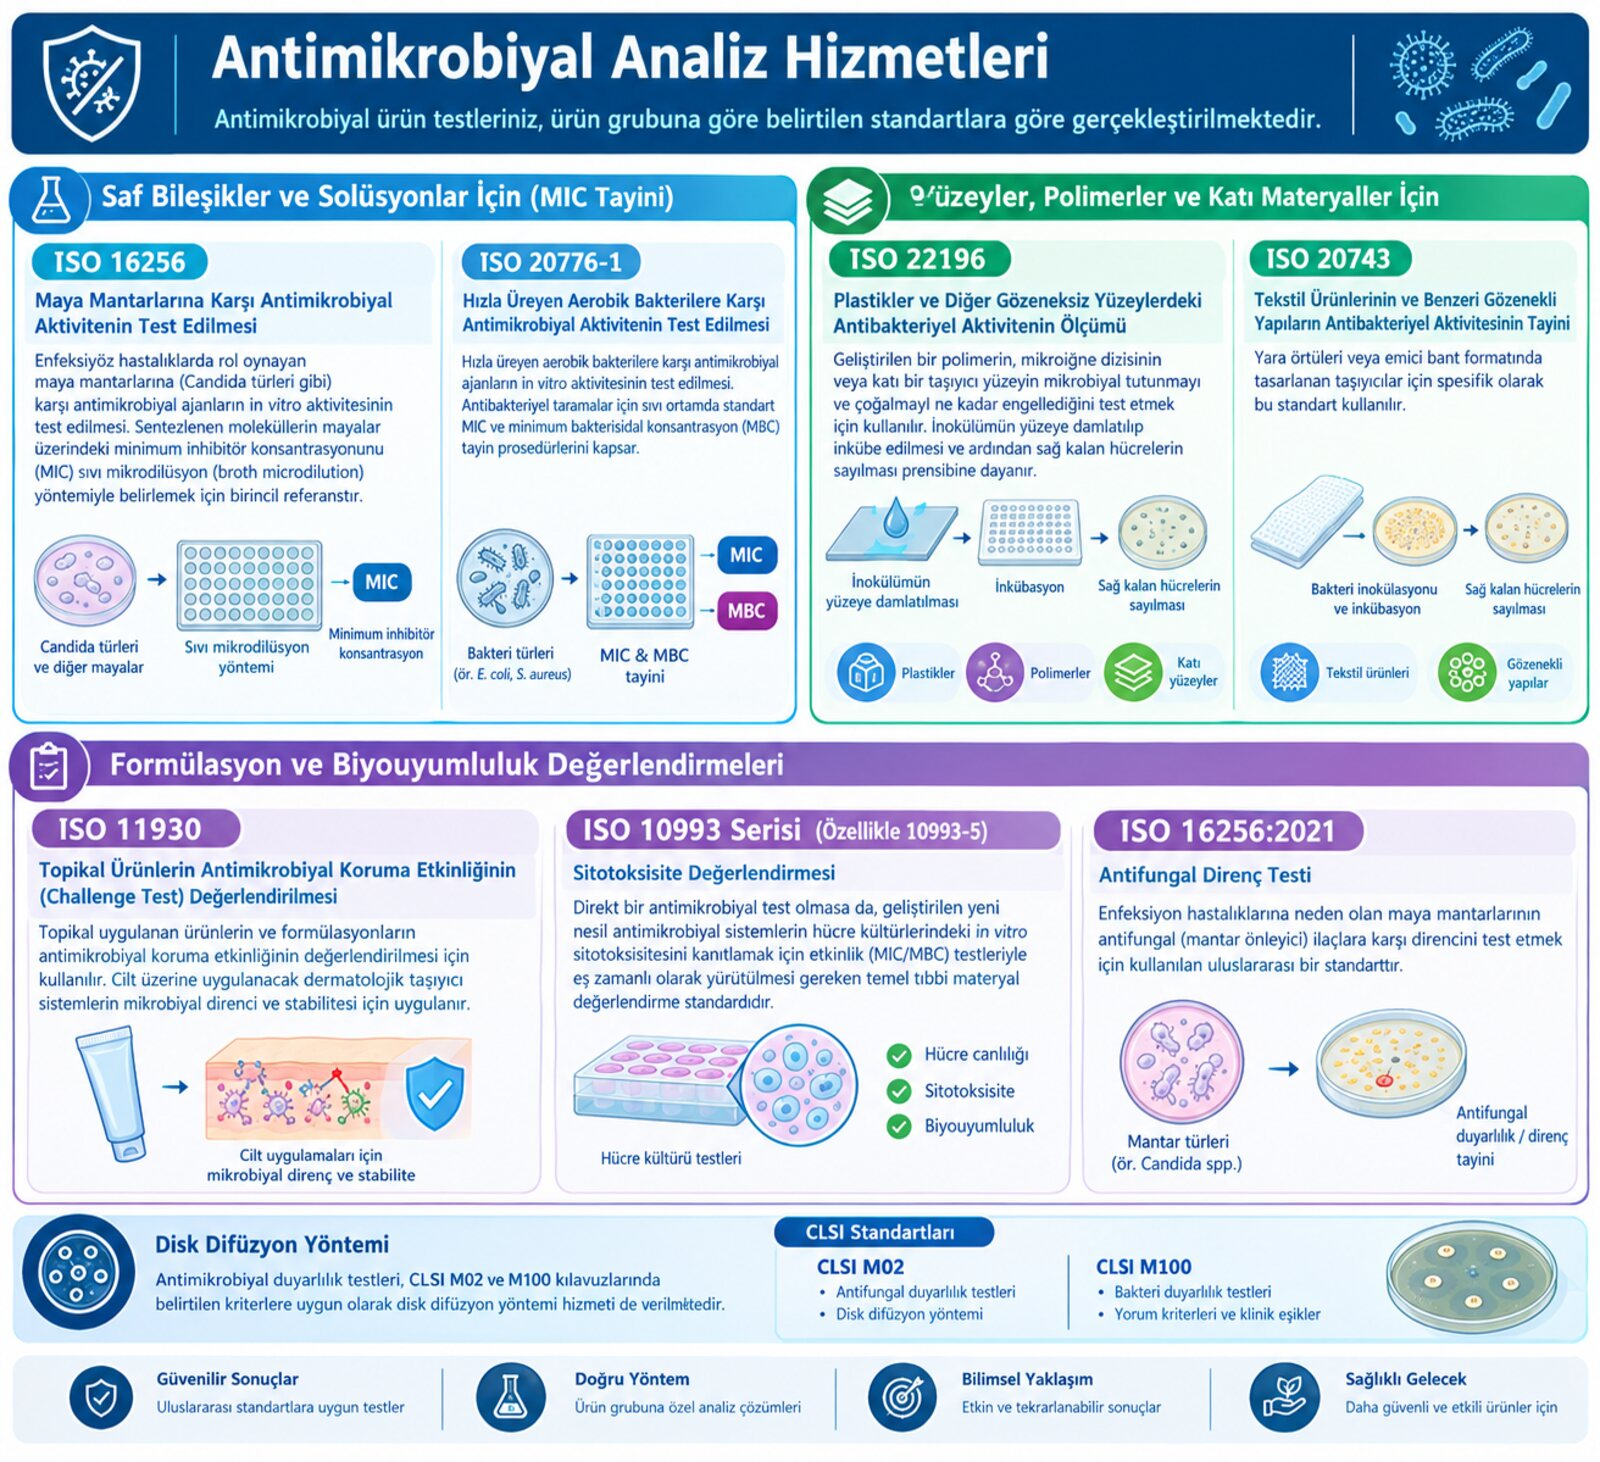
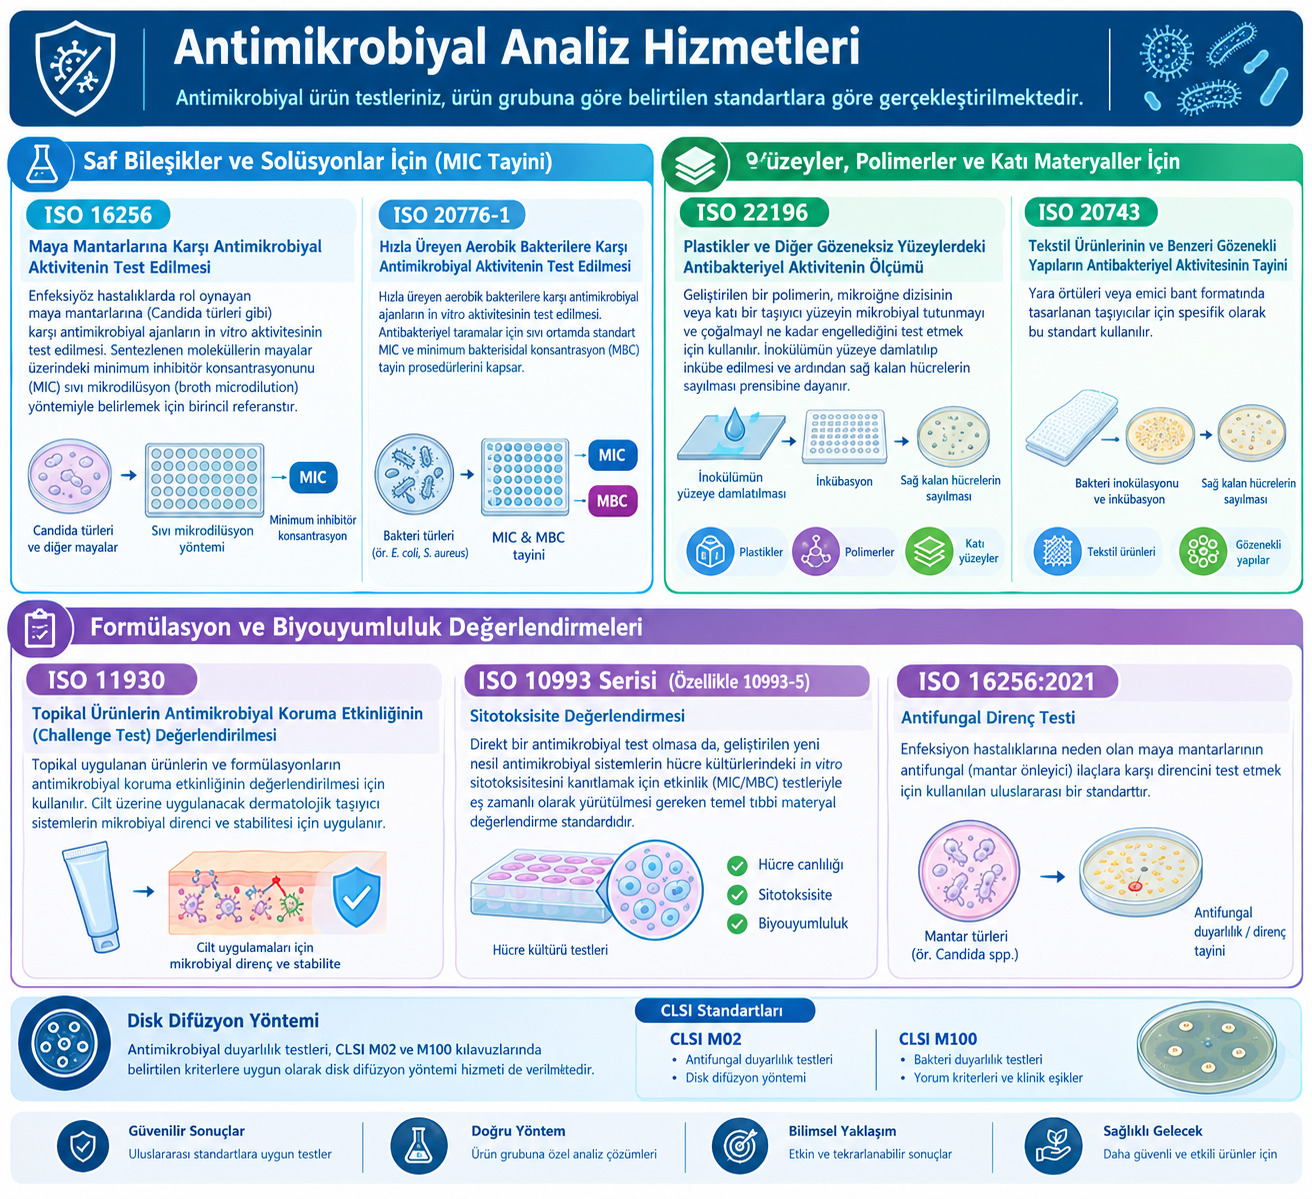
Fix upscaled/blurry images and remove placeholder brand slots
The training photo and three infographics had been upscaled past
their native resolution during the first pass, which is what made
them look soft/blurry; re-export them at native size with higher
JPEG quality instead. Also shrink the training photo's display size
so it stops dominating the Modül A panel, and drop the "Marka logosu
2/3/4" dashed placeholder boxes so Markalar doesn't look unfinished.

diff --git a/index.html b/index.html
@@ -199,6 +199,7 @@ section{padding:88px 0}
 .svc-body li>b{color:var(--ink)}
 .svc-body .cols{display:grid;grid-template-columns:1fr 1fr;gap:26px}
 .svc-body .ph{border-radius:var(--r);overflow:hidden;border:1px solid var(--line)}
+.svc-body .ph.sm{max-width:420px}
 .svc-body .ph img{width:100%;display:block}
 .svc-meta{display:grid;grid-template-columns:repeat(auto-fit,minmax(170px,1fr));gap:18px;padding:18px 20px;background:var(--paper);border-radius:12px}
 .svc-meta div dt{font-family:"IBM Plex Mono";font-size:11px;letter-spacing:.1em;text-transform:uppercase;color:var(--green)}
@@ -211,9 +212,6 @@ section{padding:88px 0}
 .svc-note a{text-decoration:underline}
 
 /* markalar / alt yapı */
-.slots{display:grid;grid-template-columns:repeat(auto-fit,minmax(160px,1fr));gap:16px}
-.slot{border:1px dashed var(--line);border-radius:12px;background:#fff;height:96px;display:grid;place-items:center;
-  font-family:"IBM Plex Mono";font-size:12px;color:#9fb2be;text-align:center;padding:10px}
 .brand-card{display:flex;align-items:center;gap:28px;border:1px solid var(--line);border-radius:var(--r);padding:26px 28px;margin-bottom:20px;background:#fff}
 .brand-card img{height:34px;width:auto;flex:none}
 .brand-card p{color:var(--slate);font-size:15px}
@@ -260,7 +258,6 @@ footer .brand span{color:#fff}
   .principles{grid-template-columns:1fr 1fr}
   .principle{border-right:0;border-bottom:1px solid var(--line)}
   .band .wrap{grid-template-columns:1fr;gap:12px}
-  .slots{grid-template-columns:1fr 1fr}
   .svc-body{padding-left:0}
   .svc-body .cols{grid-template-columns:1fr}
 }
@@ -462,7 +459,7 @@ footer .brand span{color:#fff}
         <summary><span class="n">H-01</span><h3><span data-i18n="egtA.h3">Doku – Kök Hücre Uygulama Eğitimi</span> <span class="suf" data-i18n="egtA.suf">(Modül A)</span></h3><span class="chev" aria-hidden="true">+</span></summary>
         <div class="svc-body" data-i18n-html="egtA.body">
           <p>Sanayi ve akademik alanda çalışan veya çalışmak isteyen uzman ve uzman adaylarına memeli hücre kültürü tekniklerini teorik anlatım ve bire bir uygulama fırsatıyla kazandırmayı amaçlayan bir eğitim programıdır.</p>
-          <div class="ph"><img src="assets/images/egitim-doku-kok-hucre.jpg" alt="Doku-Kök Hücre Uygulama Eğitimi'nden bir kare" loading="lazy" width="1400" height="764"></div>
+          <div class="ph sm"><img src="assets/images/egitim-doku-kok-hucre.jpg" alt="Doku-Kök Hücre Uygulama Eğitimi'nden bir kare" loading="lazy" width="1024" height="559"></div>
           <div><h4>Hedef</h4><p>Aseptik teknik şartlarında memeli hücrelerinin bulundukları dokulardan elde edilmesi; izole memeli hücrelerinin veya hücre hatlarının kültüre edilerek büyütülmesi ve devamlılıklarının sağlanması; kriyoprezervasyon ve kriyoprezerve edilen hücrelerin geri kazanılması süreçleri üzerine bilgi ve deneyim kazandırmaktır.</p></div>
           <div class="cols">
             <div><h4>Program — Kavramsal Eğitim</h4>
@@ -561,8 +558,8 @@ footer .brand span{color:#fff}
             </ul>
           </div>
           <div class="cols">
-            <div class="ph"><img src="assets/images/eksozom-izolasyon-infografik.jpg" alt="Eksozom izolasyon yöntemleri infografiği" loading="lazy" width="1600" height="1462"></div>
-            <div class="ph"><img src="assets/images/eksozom-karakterizasyon-infografik.jpg" alt="Eksozom karakterizasyonu infografiği" loading="lazy" width="1600" height="873"></div>
+            <div class="ph"><img src="assets/images/eksozom-izolasyon-infografik.jpg" alt="Eksozom izolasyon yöntemleri infografiği" loading="lazy" width="1312" height="1199"></div>
+            <div class="ph"><img src="assets/images/eksozom-karakterizasyon-infografik.jpg" alt="Eksozom karakterizasyonu infografiği" loading="lazy" width="1407" height="768"></div>
           </div>
           <p class="svc-note">Fiyat ve hizmet şartları için bizimle iletişime geçebilirsiniz.</p>
         </div>
@@ -572,7 +569,7 @@ footer .brand span{color:#fff}
         <summary><span class="n">H-06</span><h3><span data-i18n="gen.h3">Memeli ve Prokaryotik Hücrelerde Gen ve Transkripsiyon Düzenleme İşlemleri</span></h3><span class="chev" aria-hidden="true">+</span></summary>
         <div class="svc-body" data-i18n-html="gen.body">
           <ul><li>Gen aktarımı</li><li>CRISPR Cas13d aracılı kalıcı knockdown</li><li>CRISPR Cas9 ile gen knockout</li></ul>
-          <div class="ph"><img src="assets/images/gen-crispr-infografik.jpg" alt="Gen aktarma ve CRISPR teknolojileri infografiği" loading="lazy" width="1600" height="1462"></div>
+          <div class="ph"><img src="assets/images/gen-crispr-infografik.jpg" alt="Gen aktarma ve CRISPR teknolojileri infografiği" loading="lazy" width="1312" height="1199"></div>
           <p class="svc-note">Fiyat ve hizmet şartları için bizimle iletişime geçebilirsiniz.</p>
         </div>
       </details>
@@ -647,7 +644,7 @@ footer .brand span{color:#fff}
               <p>Antimikrobiyal duyarlılık testleri, CLSI M02 ve M100 kılavuzlarında belirtilen kriterlere uygun olarak disk difüzyon yöntemiyle de sunulmaktadır.</p>
             </div>
           </div>
-          <div class="ph"><img src="assets/images/antimikrobiyal-infografik.jpg" alt="Antimikrobiyal analiz hizmetleri infografiği" loading="lazy" width="1600" height="1462"></div>
+          <div class="ph"><img src="assets/images/antimikrobiyal-infografik.jpg" alt="Antimikrobiyal analiz hizmetleri infografiği" loading="lazy" width="1312" height="1199"></div>
           <p class="svc-note">Fiyat ve hizmet şartları için bizimle iletişime geçebilirsiniz.</p>
         </div>
       </details>
@@ -667,10 +664,6 @@ footer .brand span{color:#fff}
     <div class="brand-card rv">
       <img src="assets/images/as-one-logo.png" alt="AS ONE Corporation logosu" loading="lazy" width="232" height="58">
       <p data-i18n="markalar.asone">AS ONE Corporation, 1962 yılında kurulan, merkezi Osaka, Japonya'da bulunan kapsamlı bir ticaret ve tedarik şirketidir. Özellikle bilimsel araştırma, endüstriyel tesisler ve sağlık/bakım sektörleri için laboratuvar ekipmanları, sarf malzemeleri ve araç-gereç tedariki konusunda uzmanlaşmıştır. Firmamız, sizlere As One laboratuvar cihaz ve sarf malzemelerini sağlamaktadır.</p>
-    </div>
-    <div class="slots rv">
-      <div class="slot" data-i18n="markalar.slot2">Marka logosu 2</div>
-      <div class="slot" data-i18n="markalar.slot3">Marka logosu 3</div><div class="slot" data-i18n="markalar.slot4">Marka logosu 4</div>
     </div>
   </div>
 </section>
@@ -828,7 +821,7 @@ const i18n={
     'svc.suffix':'(deneysel kullanım amaçlı)','svc.desc':'Açıklama eklenecek.','svc.cta1':'Bilgi alın','svc.cta2':'Numune gönderin',
     'egtA.h3':'Doku – Kök Hücre Uygulama Eğitimi','egtA.suf':'(Modül A)',
     'egtA.body':`<p>Sanayi ve akademik alanda çalışan veya çalışmak isteyen uzman ve uzman adaylarına memeli hücre kültürü tekniklerini teorik anlatım ve bire bir uygulama fırsatıyla kazandırmayı amaçlayan bir eğitim programıdır.</p>
-      <div class="ph"><img src="assets/images/egitim-doku-kok-hucre.jpg" alt="Doku-Kök Hücre Uygulama Eğitimi'nden bir kare" loading="lazy" width="1400" height="764"></div>
+      <div class="ph sm"><img src="assets/images/egitim-doku-kok-hucre.jpg" alt="Doku-Kök Hücre Uygulama Eğitimi'nden bir kare" loading="lazy" width="1024" height="559"></div>
       <div><h4>Hedef</h4><p>Aseptik teknik şartlarında memeli hücrelerinin bulundukları dokulardan elde edilmesi; izole memeli hücrelerinin veya hücre hatlarının kültüre edilerek büyütülmesi ve devamlılıklarının sağlanması; kriyoprezervasyon ve kriyoprezerve edilen hücrelerin geri kazanılması süreçleri üzerine bilgi ve deneyim kazandırmaktır.</p></div>
       <div class="cols">
         <div><h4>Program — Kavramsal Eğitim</h4>
@@ -907,13 +900,13 @@ const i18n={
         </ul>
       </div>
       <div class="cols">
-        <div class="ph"><img src="assets/images/eksozom-izolasyon-infografik.jpg" alt="Eksozom izolasyon yöntemleri infografiği" loading="lazy" width="1600" height="1462"></div>
-        <div class="ph"><img src="assets/images/eksozom-karakterizasyon-infografik.jpg" alt="Eksozom karakterizasyonu infografiği" loading="lazy" width="1600" height="873"></div>
+        <div class="ph"><img src="assets/images/eksozom-izolasyon-infografik.jpg" alt="Eksozom izolasyon yöntemleri infografiği" loading="lazy" width="1312" height="1199"></div>
+        <div class="ph"><img src="assets/images/eksozom-karakterizasyon-infografik.jpg" alt="Eksozom karakterizasyonu infografiği" loading="lazy" width="1407" height="768"></div>
       </div>
       <p class="svc-note">Fiyat ve hizmet şartları için bizimle iletişime geçebilirsiniz.</p>`,
     'gen.h3':'Memeli ve Prokaryotik Hücrelerde Gen ve Transkripsiyon Düzenleme İşlemleri',
     'gen.body':`<ul><li>Gen aktarımı</li><li>CRISPR Cas13d aracılı kalıcı knockdown</li><li>CRISPR Cas9 ile gen knockout</li></ul>
-      <div class="ph"><img src="assets/images/gen-crispr-infografik.jpg" alt="Gen aktarma ve CRISPR teknolojileri infografiği" loading="lazy" width="1600" height="1462"></div>
+      <div class="ph"><img src="assets/images/gen-crispr-infografik.jpg" alt="Gen aktarma ve CRISPR teknolojileri infografiği" loading="lazy" width="1312" height="1199"></div>
       <p class="svc-note">Fiyat ve hizmet şartları için bizimle iletişime geçebilirsiniz.</p>`,
     'mtt.h3':'MTT Analizi',
     'mtt.body':`<ul>
@@ -966,12 +959,11 @@ const i18n={
           <p>Antimikrobiyal duyarlılık testleri, CLSI M02 ve M100 kılavuzlarında belirtilen kriterlere uygun olarak disk difüzyon yöntemiyle de sunulmaktadır.</p>
         </div>
       </div>
-      <div class="ph"><img src="assets/images/antimikrobiyal-infografik.jpg" alt="Antimikrobiyal analiz hizmetleri infografiği" loading="lazy" width="1600" height="1462"></div>
+      <div class="ph"><img src="assets/images/antimikrobiyal-infografik.jpg" alt="Antimikrobiyal analiz hizmetleri infografiği" loading="lazy" width="1312" height="1199"></div>
       <p class="svc-note">Fiyat ve hizmet şartları için bizimle iletişime geçebilirsiniz.</p>`,
     'markalar.eyebrow':'Yetkili Temsilcisi Olduğumuz Markalar','markalar.h2':'Temsil ettiğimiz markalar',
     'markalar.p':'Diğer marka logoları ve ürün grupları eklendikçe bu alan güncellenecek.',
     'markalar.asone':`AS ONE Corporation, 1962 yılında kurulan, merkezi Osaka, Japonya'da bulunan kapsamlı bir ticaret ve tedarik şirketidir. Özellikle bilimsel araştırma, endüstriyel tesisler ve sağlık/bakım sektörleri için laboratuvar ekipmanları, sarf malzemeleri ve araç-gereç tedariki konusunda uzmanlaşmıştır. Firmamız, sizlere As One laboratuvar cihaz ve sarf malzemelerini sağlamaktadır.`,
-    'markalar.slot1':'Marka logosu 1','markalar.slot2':'Marka logosu 2','markalar.slot3':'Marka logosu 3','markalar.slot4':'Marka logosu 4',
     'altyapi.eyebrow':'Alt Yapımız','altyapi.h2':'Doku ve Hücre Laboratuvarımız',
     'altyapi.note':'Ekipman listesi paylaştığınız envanterle eklenecek.',
     'iletisim.eyebrow':'İletişim','iletisim.h2':'Projenizi konuşalım',
@@ -1041,7 +1033,7 @@ const i18n={
     'svc.suffix':'(for experimental use)','svc.desc':'Description to be added.','svc.cta1':'Get Info','svc.cta2':'Send a Sample',
     'egtA.h3':'Tissue–Stem Cell Application Training','egtA.suf':'(Module A)',
     'egtA.body':`<p>A training program for professionals and prospective professionals in industry and academia, designed to build mammalian cell culture skills through theoretical instruction and one-on-one hands-on practice.</p>
-      <div class="ph"><img src="assets/images/egitim-doku-kok-hucre.jpg" alt="A moment from the Tissue–Stem Cell Application Training" loading="lazy" width="1400" height="764"></div>
+      <div class="ph sm"><img src="assets/images/egitim-doku-kok-hucre.jpg" alt="A moment from the Tissue–Stem Cell Application Training" loading="lazy" width="1024" height="559"></div>
       <div><h4>Objective</h4><p>To provide knowledge and hands-on experience in obtaining mammalian cells from their tissues of origin under aseptic conditions; culturing and expanding isolated mammalian cells or cell lines while maintaining their continuity; and the processes of cryopreservation and recovering cryopreserved cells.</p></div>
       <div class="cols">
         <div><h4>Program — Conceptual Training</h4>
@@ -1120,13 +1112,13 @@ const i18n={
         </ul>
       </div>
       <div class="cols">
-        <div class="ph"><img src="assets/images/eksozom-izolasyon-infografik.jpg" alt="Exosome isolation methods infographic" loading="lazy" width="1600" height="1462"></div>
-        <div class="ph"><img src="assets/images/eksozom-karakterizasyon-infografik.jpg" alt="Exosome characterization infographic" loading="lazy" width="1600" height="873"></div>
+        <div class="ph"><img src="assets/images/eksozom-izolasyon-infografik.jpg" alt="Exosome isolation methods infographic" loading="lazy" width="1312" height="1199"></div>
+        <div class="ph"><img src="assets/images/eksozom-karakterizasyon-infografik.jpg" alt="Exosome characterization infographic" loading="lazy" width="1407" height="768"></div>
       </div>
       <p class="svc-note">Please contact us for pricing and service terms.</p>`,
     'gen.h3':'Gene and Transcription Regulation in Mammalian and Prokaryotic Cells',
     'gen.body':`<ul><li>Gene transfer</li><li>CRISPR Cas13d–mediated permanent knockdown</li><li>Gene knockout with CRISPR Cas9</li></ul>
-      <div class="ph"><img src="assets/images/gen-crispr-infografik.jpg" alt="Gene transfer and CRISPR technologies infographic" loading="lazy" width="1600" height="1462"></div>
+      <div class="ph"><img src="assets/images/gen-crispr-infografik.jpg" alt="Gene transfer and CRISPR technologies infographic" loading="lazy" width="1312" height="1199"></div>
       <p class="svc-note">Please contact us for pricing and service terms.</p>`,
     'mtt.h3':'MTT Assay',
     'mtt.body':`<ul>
@@ -1179,12 +1171,11 @@ const i18n={
           <p>Antimicrobial susceptibility testing is also offered via the disk diffusion method, in accordance with the criteria specified in the CLSI M02 and M100 guidelines.</p>
         </div>
       </div>
-      <div class="ph"><img src="assets/images/antimikrobiyal-infografik.jpg" alt="Antimicrobial testing services infographic" loading="lazy" width="1600" height="1462"></div>
+      <div class="ph"><img src="assets/images/antimikrobiyal-infografik.jpg" alt="Antimicrobial testing services infographic" loading="lazy" width="1312" height="1199"></div>
       <p class="svc-note">Please contact us for pricing and service terms.</p>`,
     'markalar.eyebrow':'Brands We Represent','markalar.h2':'Brands we represent',
     'markalar.p':'This area will be updated as more brand logos and product groups are added.',
     'markalar.asone':`AS ONE Corporation, founded in 1962 and headquartered in Osaka, Japan, is a comprehensive trading and supply company. It specializes in supplying laboratory equipment, consumables and instruments for scientific research, industrial facilities, and the healthcare sector. Our company supplies you with AS ONE laboratory equipment and consumables.`,
-    'markalar.slot1':'Brand logo 1','markalar.slot2':'Brand logo 2','markalar.slot3':'Brand logo 3','markalar.slot4':'Brand logo 4',
     'altyapi.eyebrow':'Our Infrastructure','altyapi.h2':'Our Tissue and Cell Laboratory',
     'altyapi.note':'The equipment list will be added once you share your inventory.',
     'iletisim.eyebrow':'Contact','iletisim.h2':"Let's talk about your project",
@@ -1254,7 +1245,7 @@ const i18n={
     'svc.suffix':'(実験用)','svc.desc':'説明は追って追加されます。','svc.cta1':'詳細を見る','svc.cta2':'サンプルを送る',
     'egtA.h3':'組織・幹細胞応用トレーニング','egtA.suf':'(モジュールA)',
     'egtA.body':`<p>産業界・学術界で活躍する、またはこれから活躍したい専門家・専門家候補を対象に、哺乳類細胞培養技術を座学と個別実習の両方で習得できるトレーニングプログラムです。</p>
-      <div class="ph"><img src="assets/images/egitim-doku-kok-hucre.jpg" alt="組織・幹細胞応用トレーニングの様子" loading="lazy" width="1400" height="764"></div>
+      <div class="ph sm"><img src="assets/images/egitim-doku-kok-hucre.jpg" alt="組織・幹細胞応用トレーニングの様子" loading="lazy" width="1024" height="559"></div>
       <div><h4>目標</h4><p>無菌操作条件下で組織から哺乳類細胞を採取すること、単離した哺乳類細胞や細胞株を培養・増殖させて継続的に維持すること、そして凍結保存および凍結保存細胞の回収プロセスについて、知識と実務経験を身につけることを目的としています。</p></div>
       <div class="cols">
         <div><h4>プログラム — 座学</h4>
@@ -1333,13 +1324,13 @@ const i18n={
         </ul>
       </div>
       <div class="cols">
-        <div class="ph"><img src="assets/images/eksozom-izolasyon-infografik.jpg" alt="エクソソーム単離方法のインフォグラフィック" loading="lazy" width="1600" height="1462"></div>
-        <div class="ph"><img src="assets/images/eksozom-karakterizasyon-infografik.jpg" alt="エクソソームキャラクタリゼーションのインフォグラフィック" loading="lazy" width="1600" height="873"></div>
+        <div class="ph"><img src="assets/images/eksozom-izolasyon-infografik.jpg" alt="エクソソーム単離方法のインフォグラフィック" loading="lazy" width="1312" height="1199"></div>
+        <div class="ph"><img src="assets/images/eksozom-karakterizasyon-infografik.jpg" alt="エクソソームキャラクタリゼーションのインフォグラフィック" loading="lazy" width="1407" height="768"></div>
       </div>
       <p class="svc-note">価格およびサービス条件についてはお問い合わせください。</p>`,
     'gen.h3':'哺乳類・原核細胞における遺伝子・転写制御処理',
     'gen.body':`<ul><li>遺伝子導入</li><li>CRISPR Cas13dによる恒久的ノックダウン</li><li>CRISPR Cas9による遺伝子ノックアウト</li></ul>
-      <div class="ph"><img src="assets/images/gen-crispr-infografik.jpg" alt="遺伝子導入・CRISPR技術のインフォグラフィック" loading="lazy" width="1600" height="1462"></div>
+      <div class="ph"><img src="assets/images/gen-crispr-infografik.jpg" alt="遺伝子導入・CRISPR技術のインフォグラフィック" loading="lazy" width="1312" height="1199"></div>
       <p class="svc-note">価格およびサービス条件についてはお問い合わせください。</p>`,
     'mtt.h3':'MTTアッセイ',
     'mtt.body':`<ul>
@@ -1392,12 +1383,11 @@ const i18n={
           <p>CLSI M02およびM100ガイドラインに定められた基準に従い、ディスク拡散法による薬剤感受性試験も提供しています。</p>
         </div>
       </div>
-      <div class="ph"><img src="assets/images/antimikrobiyal-infografik.jpg" alt="抗菌性試験サービスのインフォグラフィック" loading="lazy" width="1600" height="1462"></div>
+      <div class="ph"><img src="assets/images/antimikrobiyal-infografik.jpg" alt="抗菌性試験サービスのインフォグラフィック" loading="lazy" width="1312" height="1199"></div>
       <p class="svc-note">価格およびサービス条件についてはお問い合わせください。</p>`,
     'markalar.eyebrow':'正規代理店ブランド','markalar.h2':'取扱ブランド',
     'markalar.p':'他のブランドロゴや製品カテゴリーが追加され次第、このエリアも更新されます。',
     'markalar.asone':`AS ONE Corporationは、1962年創業、大阪府に本社を置く総合商社・サプライヤーです。特に科学研究、産業施設、ヘルスケア分野向けのラボ機器・消耗品・器具の供給を専門としています。当社は、AS ONE社のラボ機器・消耗品をお客様にご提供しています。`,
-    'markalar.slot1':'ブランドロゴ1','markalar.slot2':'ブランドロゴ2','markalar.slot3':'ブランドロゴ3','markalar.slot4':'ブランドロゴ4',
     'altyapi.eyebrow':'設備・インフラ','altyapi.h2':'組織・細胞ラボ',
     'altyapi.note':'機器リストは、ご提供いただく在庫情報をもとに追加されます。',
     'iletisim.eyebrow':'お問い合わせ','iletisim.h2':'プロジェクトについてご相談ください',
